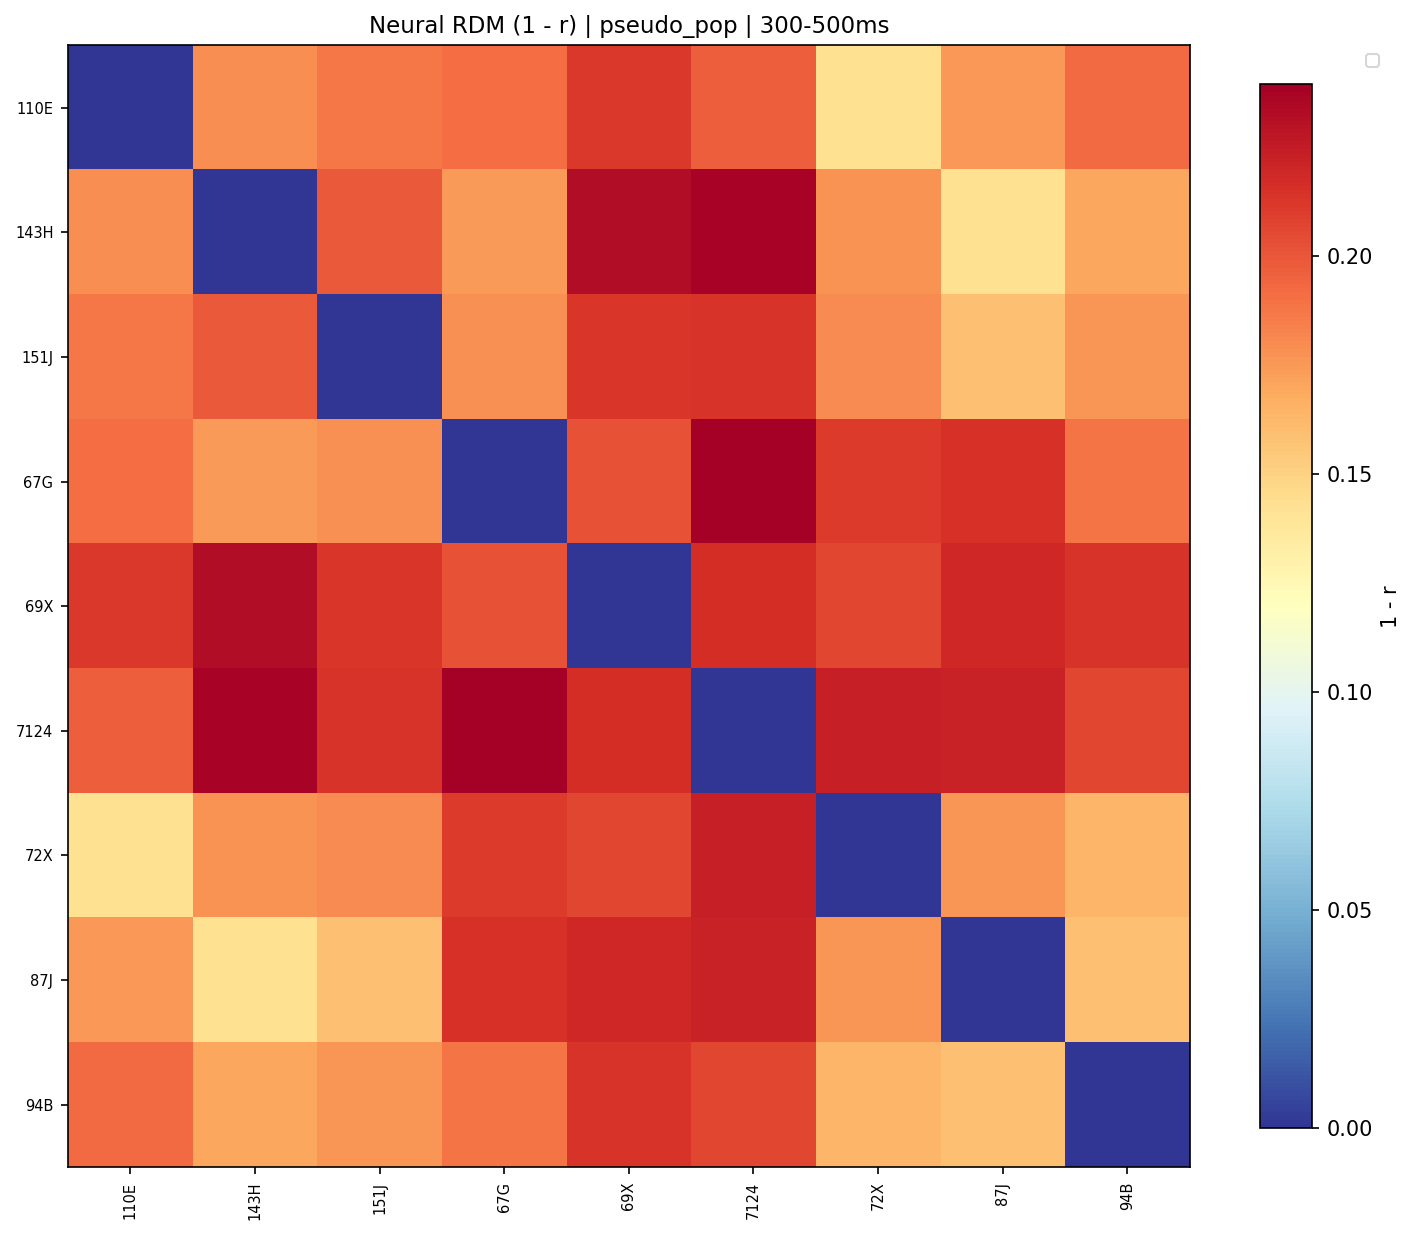
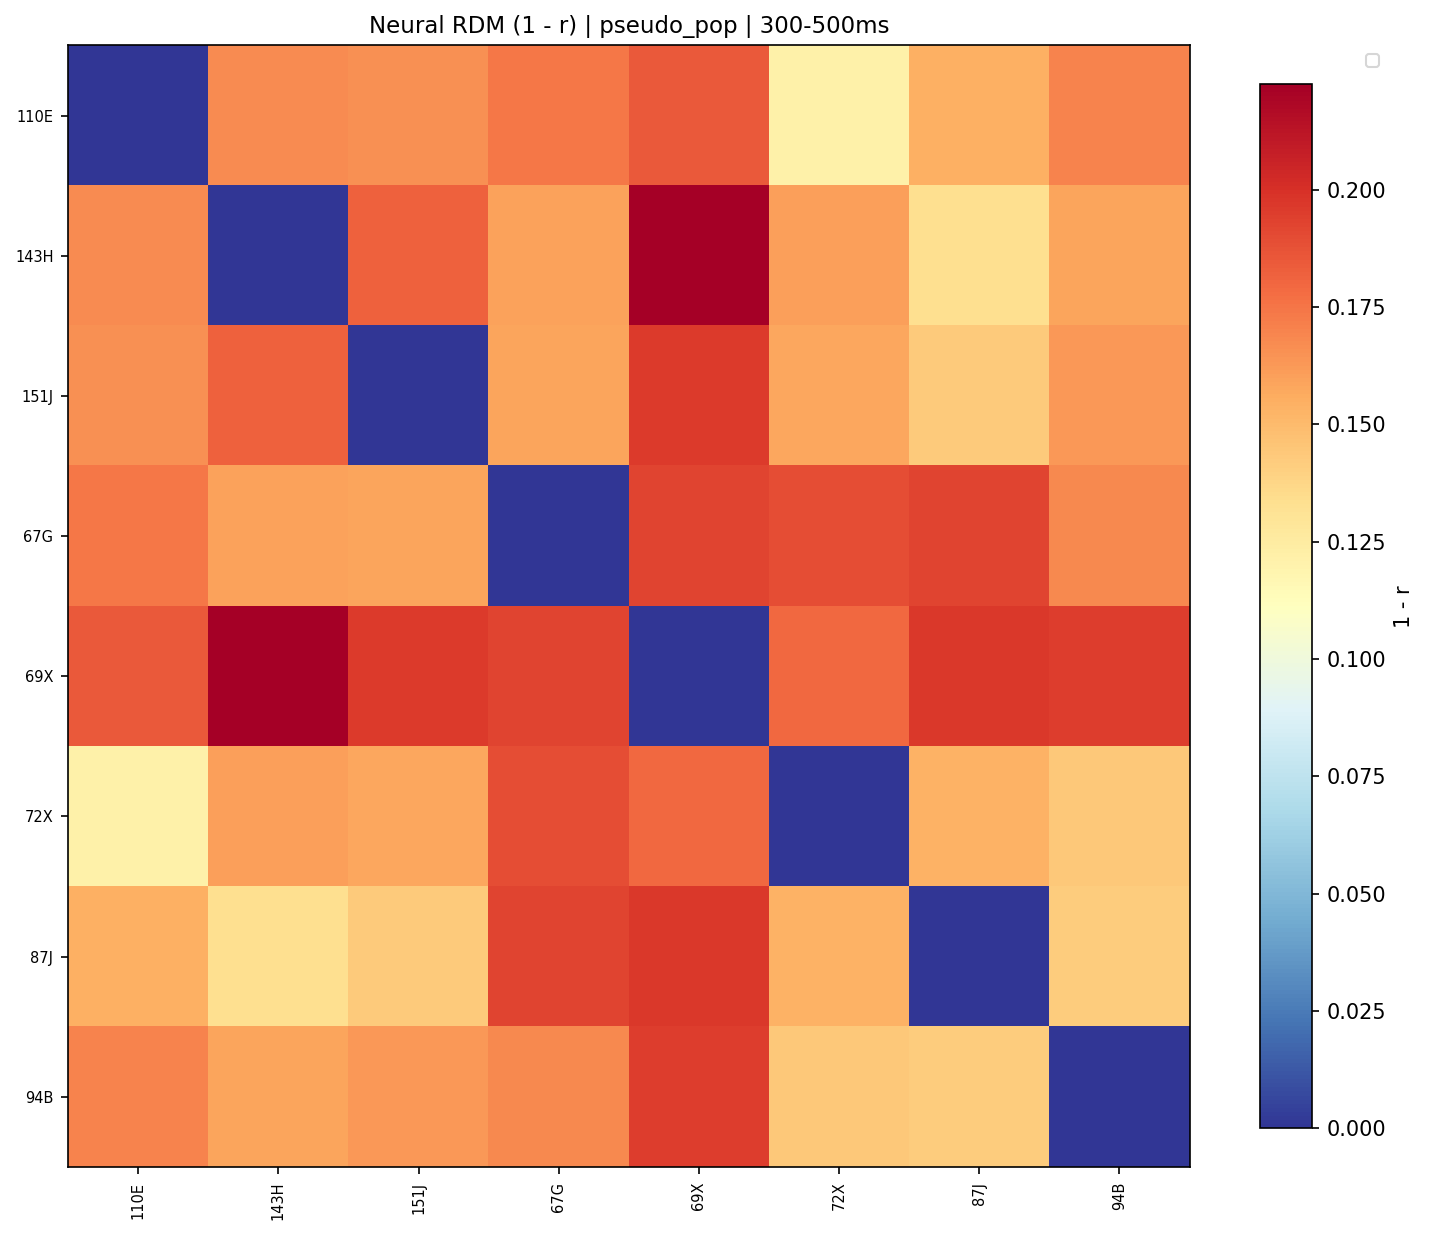
running some social rsa again

diff --git a/src/analyses/population_analysis/rsa/run_rsa_social.py b/src/analyses/population_analysis/rsa/run_rsa_social.py
@@ -490,12 +490,12 @@ def save_config_summary(cfg, save_dir):
 
 def main():
     cfg = SocialRSAConfig(
-        region='AMG',
+        region='ER',
         session=None,                          # None = pseudo-population; 'session_id' = single session
-        window=(0.300, 0.500),
+        window=(0.300, 0.600),
         min_epoch_duration=1.3,
-        min_reps_per_monkey=7,
-        neural_metric='correlation',
+        min_reps_per_monkey=5,
+        neural_metric='euclidean',  #correlation, euclidean, cosine, mahalanobis
         model_factors=[],
         exclude_groups=['Stranger Things', 'Best Frans', 'Instigators'],
         normalization='soft',
@@ -504,7 +504,7 @@ def main():
         between_group_permutations=2000,
         n_bootstrap=2000,
         save_plots=True,
-        save_dir='rsa_social_hypothesis_testing',
+        save_dir='rsa_social',
         visual_responsiveness_filter=False,
         partial_out_rank=False,
         # exclude_identities=['7124','G942'],
@@ -586,7 +586,7 @@ def main():
         win_start = int(cfg.window[0] * 1000)
         win_end   = int(cfg.window[1] * 1000)
         tx_tag    = cfg.transform_social_behavior or 'raw'
-        save_dir_base = f"{cfg.save_dir}/H1_soft_normalization/{cfg.region}_{win_start}_{win_end}_{tx_tag}"
+        save_dir_base = f"{cfg.save_dir}/{cfg.region}_{win_start}_{win_end}_beh_{tx_tag}_neur_{cfg.neural_metric}_{cfg.normalization}"
         save_config_summary(cfg, save_dir_base)
 
         print(f"\n{'='*60}")
